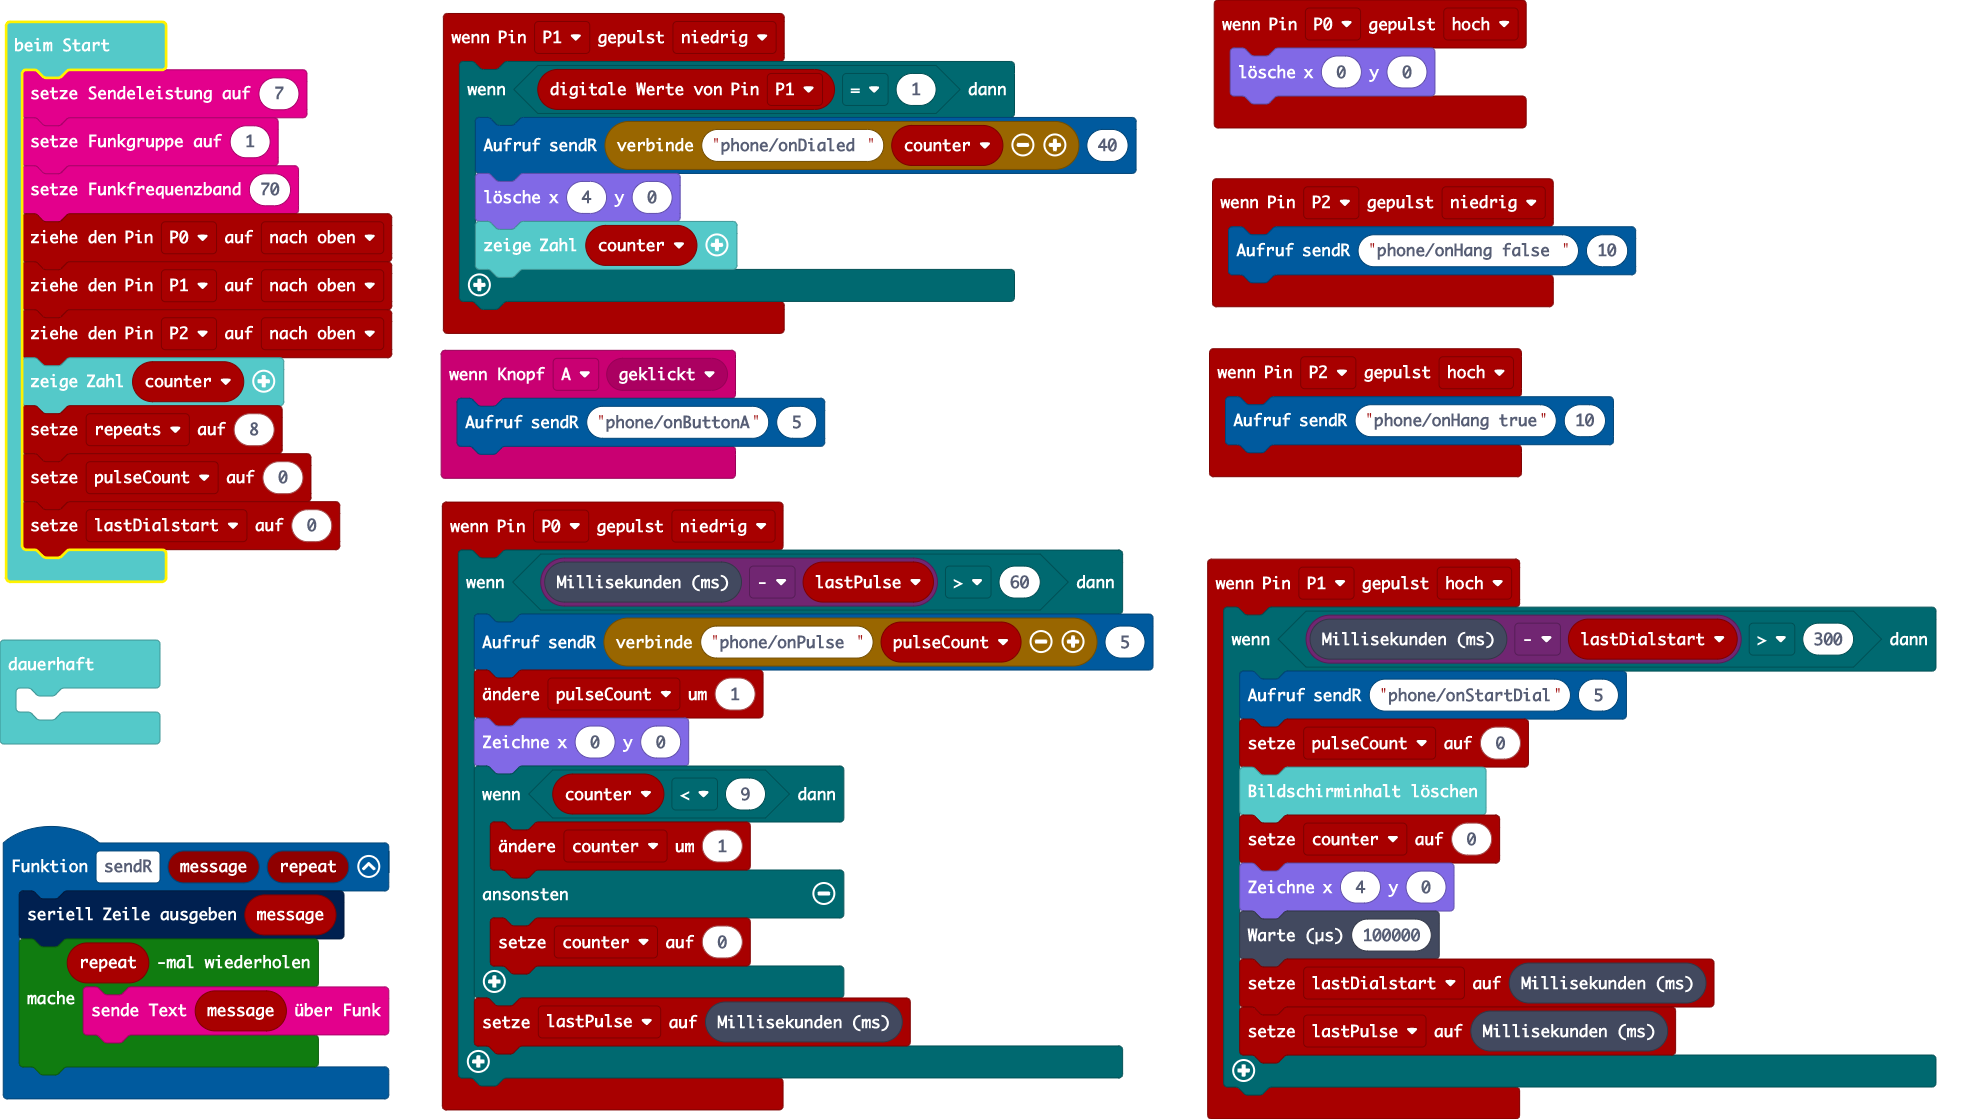
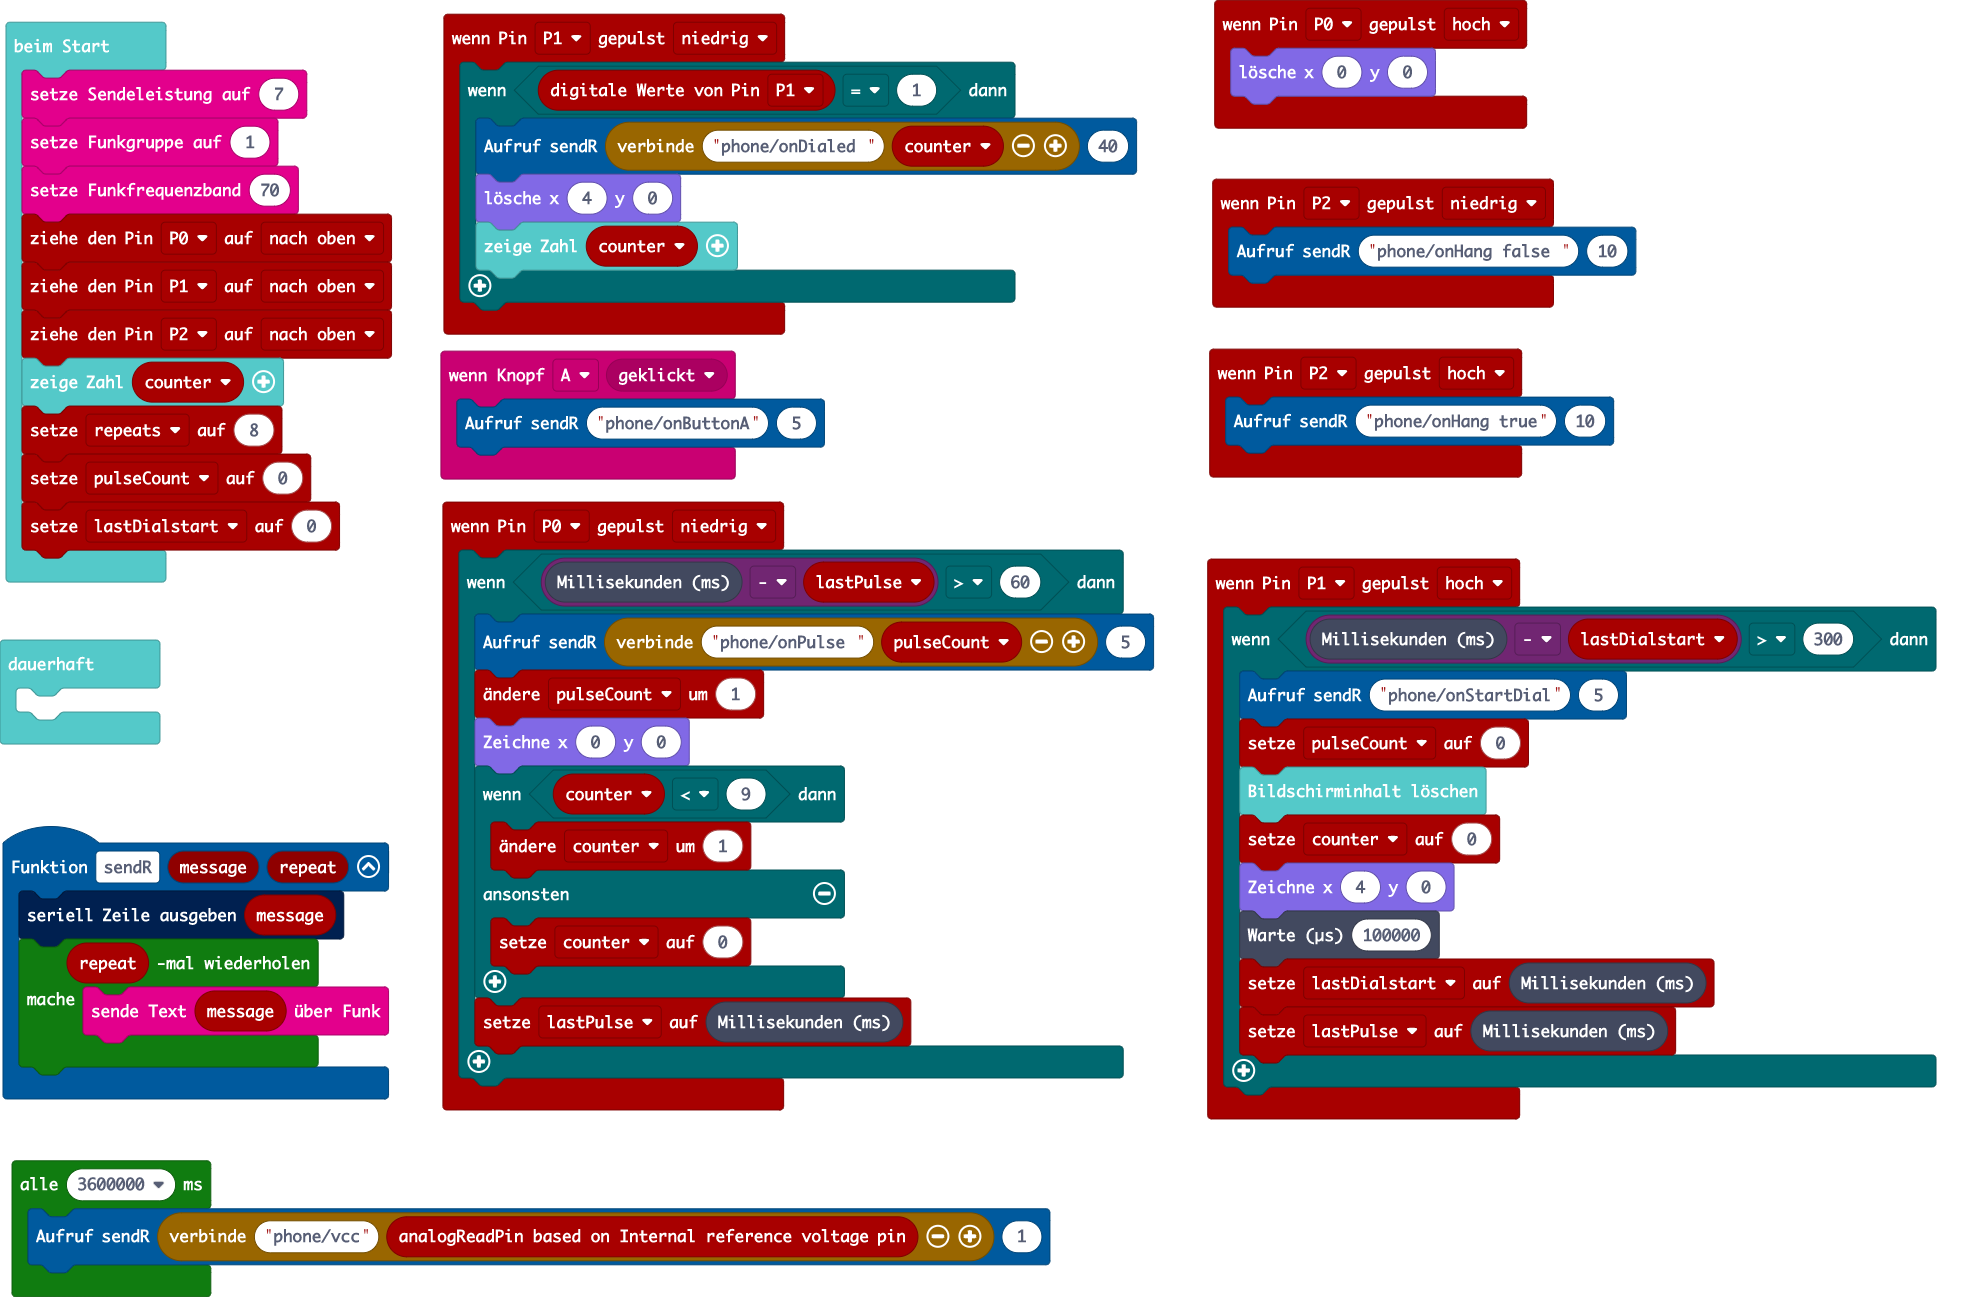
Send Vcc

diff --git a/main.ts b/main.ts
@@ -68,3 +68,6 @@ lastDialstart = 0
 basic.forever(function () {
 	
 })
+loops.everyInterval(3600000, function () {
+    sendR("phone/vcc" + pins.analogReadPinInternalRef(), 1)
+})
